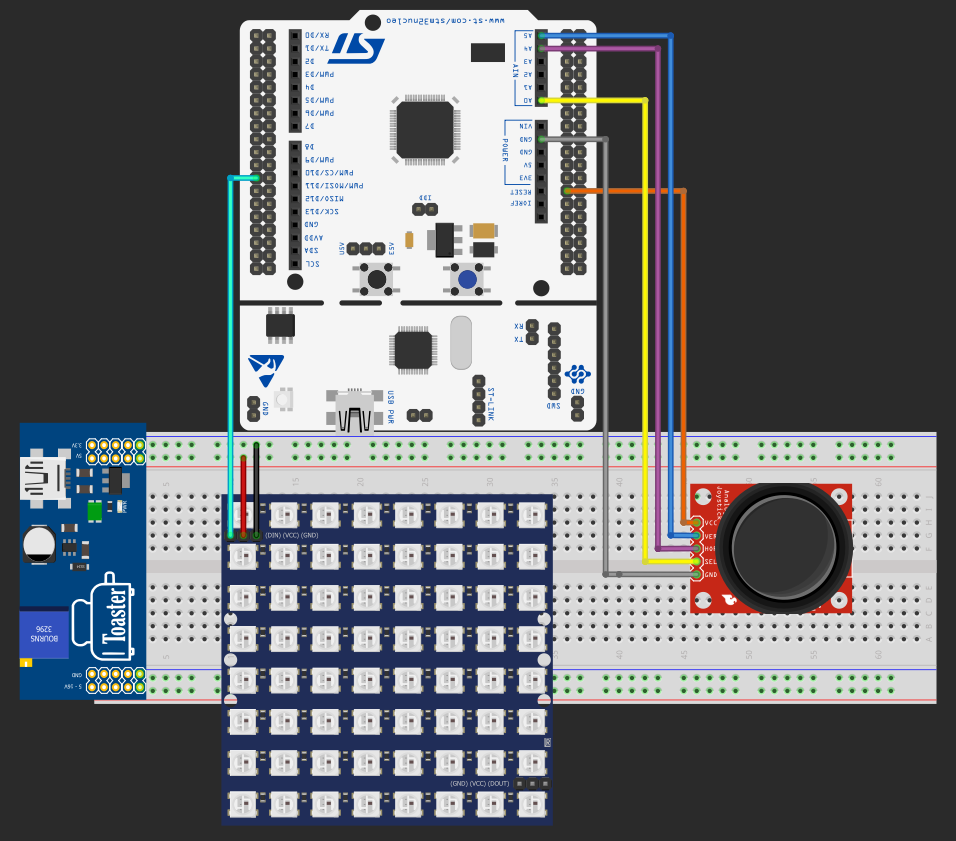
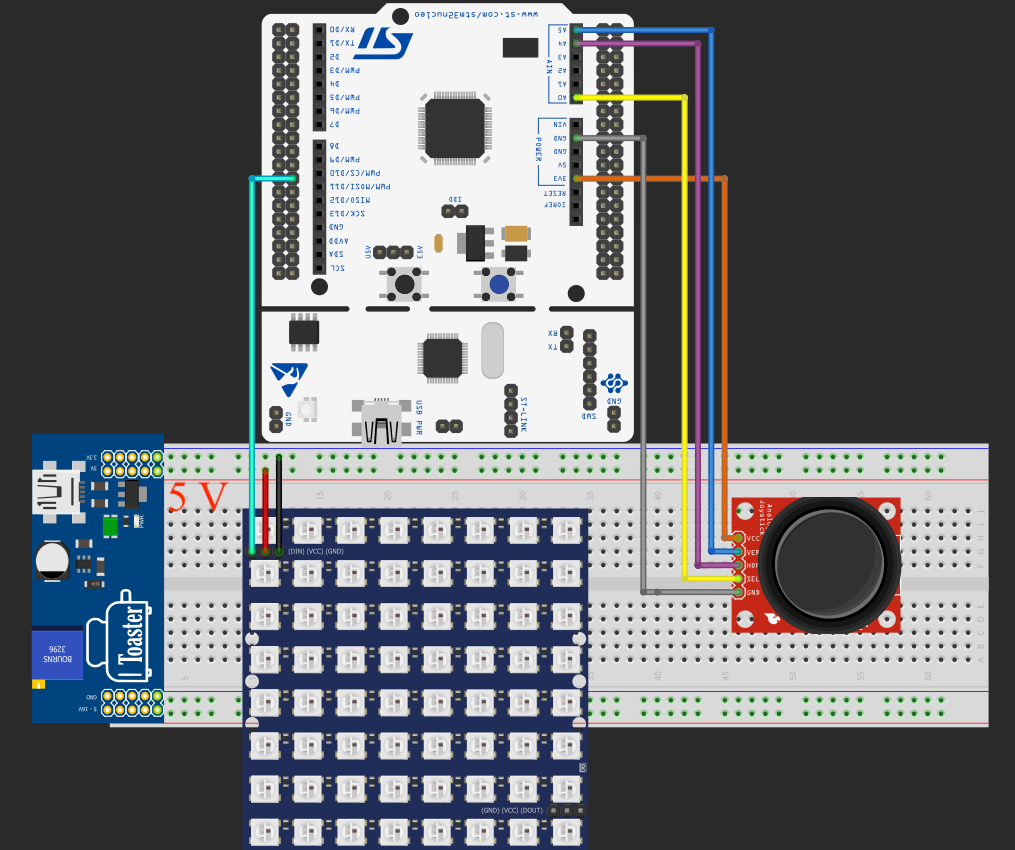
Updated Readme

Changed region(s): [[0.0, 0.0, 1.0, 1.0], [0.3944, 0.1237, 0.4247, 0.1855]]

diff --git a/README.md b/README.md
@@ -39,7 +39,10 @@ The firmware is developed in C using STM32CubeIDE. The project is structured int
 + joystick module - handles joystick input and movement interpretation.
 
 ## Project presentation
-This section will be updated soon...
+### Gameplay:
+![Project schematic](images/snake.gif)
+### Assembled Hardware:
+![Project schematic](images/hardware.png)
 
 ## Project setup
 
